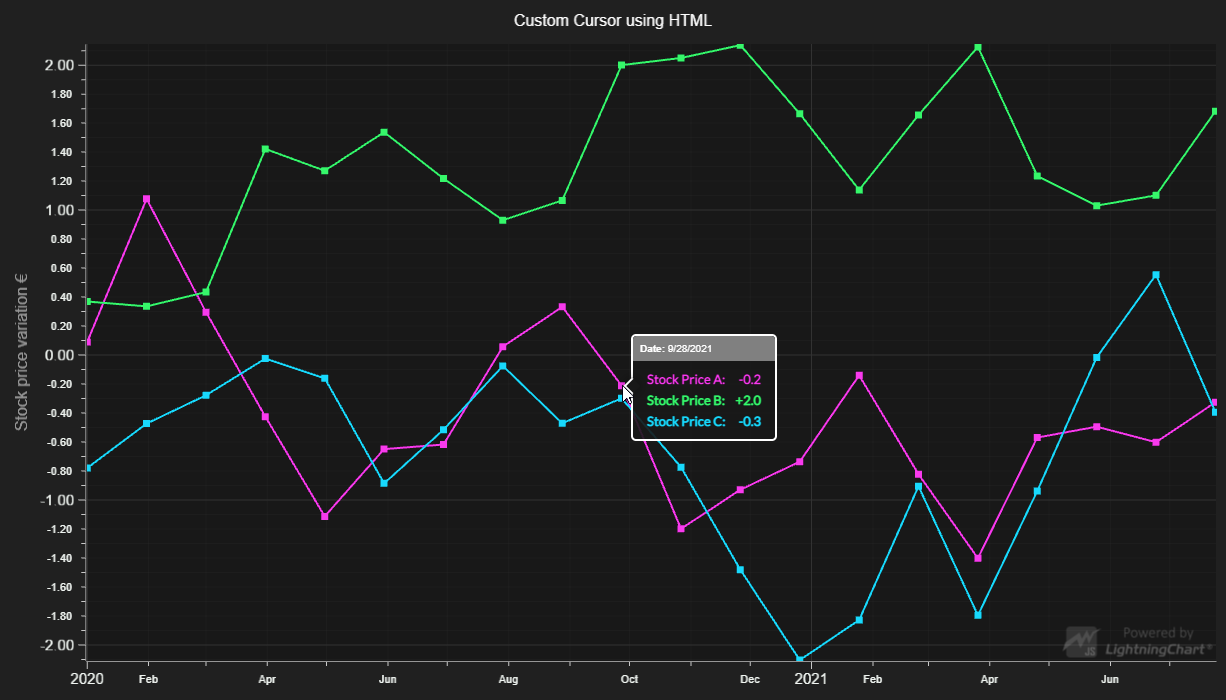
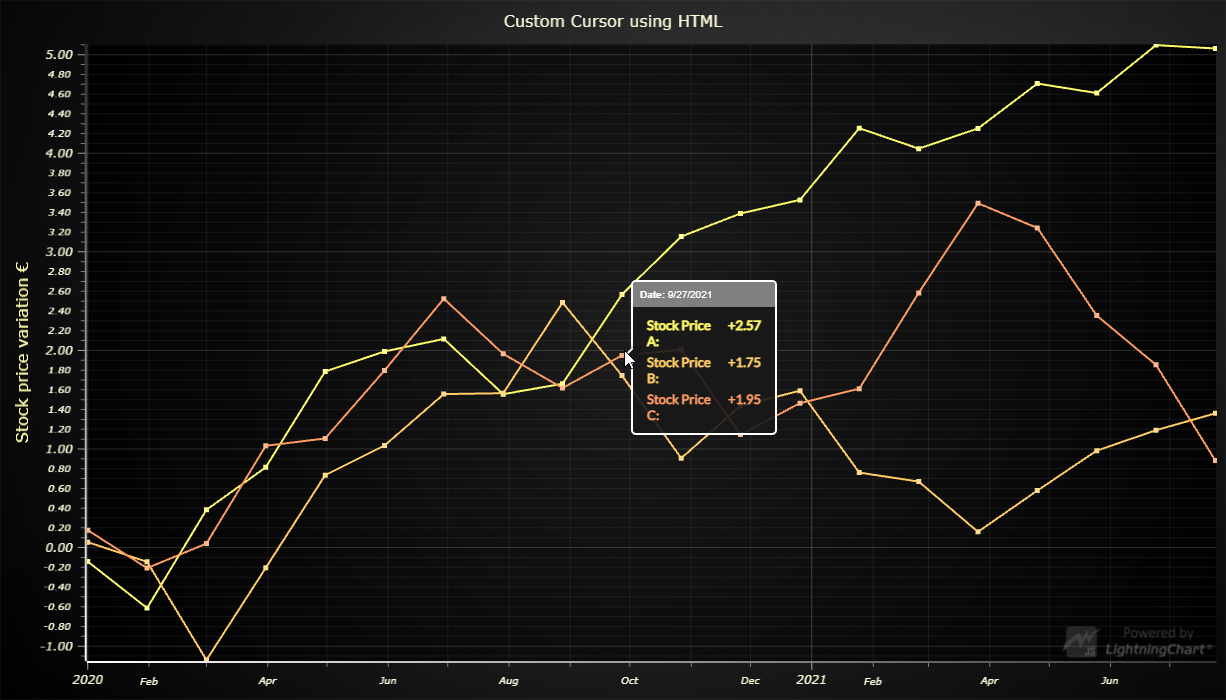
Update LCJS version

diff --git a/src/index.js b/src/index.js
@@ -15,15 +15,10 @@ const {
   lightningChart,
   AutoCursorModes,
   AxisTickStrategies,
-  ColorHEX,
-  SolidFill,
-  SolidLine,
   translatePoint,
   Themes,
 } = lcjs;
 
-// colors of the series
-const colors = ["#fc03f0", "#03fc62", "#00d9ff"];
 // names of the data the series
 const names = ["Stock Price A", "Stock Price B", "Stock Price C"];
 // define date that matches value of 0 on date time axis.
@@ -34,7 +29,7 @@ const dataFrequency = 30 * 24 * 60 * 60 * 1000;
 // Create a XY Chart.
 const chart = lightningChart()
   .ChartXY({
-    // theme: Themes.dark
+    // theme: Themes.darkGold
   })
   // Disable native AutoCursor to create custom
   .setAutoCursorMode(AutoCursorModes.disabled)
@@ -55,20 +50,6 @@ const series = new Array(3).fill(0).map((_, i) => {
   const nSeries = chart
     .addPointLineSeries()
     .setMouseInteractions(false)
-    .setPointFillStyle(
-      new SolidFill({
-        color: ColorHEX(colors[i]),
-      })
-    )
-    .setPointSize(7)
-    .setStrokeStyle(
-      new SolidLine({
-        fillStyle: new SolidFill({
-          color: ColorHEX(colors[i]),
-        }),
-        thickness: 2,
-      })
-    );
 
   createProgressiveTraceGenerator()
     .setNumberOfPoints(20)
@@ -84,6 +65,14 @@ const series = new Array(3).fill(0).map((_, i) => {
     });
   return nSeries;
 });
+
+// Read back series colors into CSS supported format "rgba(...)"
+const colors = series.map((nSeries) => {
+  const fill = nSeries.getStrokeStyle().getFillStyle()
+  // NOTE: Assume SolidFill
+  const color = fill.getColor()
+  return `rgba(${color.getR()},${color.getG()},${color.getB()},${color.getA()})`
+})
 
 // Create custom cursor UI by adding HTML elements to the document.
 const styleElem = document.head.appendChild(document.createElement("style"));
@@ -179,7 +168,7 @@ chart.onSeriesBackgroundMouseMove((_, event) => {
       rowElement += `<div class='values' style='color: ${
         colors[i]
       }' ><span>${series[i].getName()}:</span> ${
-        sign + nearestDataPoints[i].location.y.toFixed(1)
+        sign + chart.getDefaultAxisY().formatValue(nearestDataPoints[i].location.y)
       }</div>`;
     }
     line2.innerHTML = rowElement;

diff --git a/webpack.config.js b/webpack.config.js
@@ -69,7 +69,8 @@ module.exports = {
         }),
         new CopyWebpackPlugin({
             patterns: [
-                { from: './assets/**/*', to: './examples/assets', flatten: true, noErrorOnMissing: true }
+                { from: './assets/**/*', to: './examples/assets', flatten: true, noErrorOnMissing: true },
+                { from: './node_modules/@arction/lcjs/dist/resources', to: 'resources', noErrorOnMissing: true },
             ]
         })
     ]

diff --git a/README.md b/README.md
@@ -106,17 +106,17 @@ Direct developer email support can be purchased through a [Support Plan][4] or b
 © Arction Ltd 2009-2020. All rights reserved.
 
 
-[Lightning Chart top reference]: https://www.arction.com/lightningchart-js-api-documentation/v3.0.1/interfaces/lightningchart.html
-[Coordinate system translation method]: https://www.arction.com/lightningchart-js-api-documentation/v3.0.1/globals.html#translatepoint
-[Auto cursor modes]: https://www.arction.com/lightningchart-js-api-documentation/v3.0.1/enums/autocursormodes.html
-[Axis tick strategies]: https://www.arction.com/lightningchart-js-api-documentation/v3.0.1/globals.html#axistickstrategies
-[UI element builders]: https://www.arction.com/lightningchart-js-api-documentation/v3.0.1/globals.html#uielementbuilders
-[UI layout builders]: https://www.arction.com/lightningchart-js-api-documentation/v3.0.1/globals.html#uilayoutbuilders
-[UI backgrounds]: https://www.arction.com/lightningchart-js-api-documentation/v3.0.1/globals.html#uibackgrounds
-[UI position origin]: https://www.arction.com/lightningchart-js-api-documentation/v3.0.1/globals.html#uiorigins
-[Color factory hexadecimal]: https://www.arction.com/lightningchart-js-api-documentation/v3.0.1/globals.html#colorhex
-[Solid fill style]: https://www.arction.com/lightningchart-js-api-documentation/v3.0.1/classes/solidfill.html
-[Solid line style]: https://www.arction.com/lightningchart-js-api-documentation/v3.0.1/classes/solidline.html
-[Chart XY]: https://www.arction.com/lightningchart-js-api-documentation/v3.0.1/classes/chartxy.html
-[Axis XY]: https://www.arction.com/lightningchart-js-api-documentation/v3.0.1/classes/axis.html
+[Lightning Chart top reference]: https://www.arction.com/lightningchart-js-api-documentation/v3.1.0/interfaces/lightningchart.html
+[Coordinate system translation method]: https://www.arction.com/lightningchart-js-api-documentation/v3.1.0/globals.html#translatepoint
+[Auto cursor modes]: https://www.arction.com/lightningchart-js-api-documentation/v3.1.0/enums/autocursormodes.html
+[Axis tick strategies]: https://www.arction.com/lightningchart-js-api-documentation/v3.1.0/globals.html#axistickstrategies
+[UI element builders]: https://www.arction.com/lightningchart-js-api-documentation/v3.1.0/globals.html#uielementbuilders
+[UI layout builders]: https://www.arction.com/lightningchart-js-api-documentation/v3.1.0/globals.html#uilayoutbuilders
+[UI backgrounds]: https://www.arction.com/lightningchart-js-api-documentation/v3.1.0/globals.html#uibackgrounds
+[UI position origin]: https://www.arction.com/lightningchart-js-api-documentation/v3.1.0/globals.html#uiorigins
+[Color factory hexadecimal]: https://www.arction.com/lightningchart-js-api-documentation/v3.1.0/globals.html#colorhex
+[Solid fill style]: https://www.arction.com/lightningchart-js-api-documentation/v3.1.0/classes/solidfill.html
+[Solid line style]: https://www.arction.com/lightningchart-js-api-documentation/v3.1.0/classes/solidline.html
+[Chart XY]: https://www.arction.com/lightningchart-js-api-documentation/v3.1.0/classes/chartxy.html
+[Axis XY]: https://www.arction.com/lightningchart-js-api-documentation/v3.1.0/classes/axis.html
 
